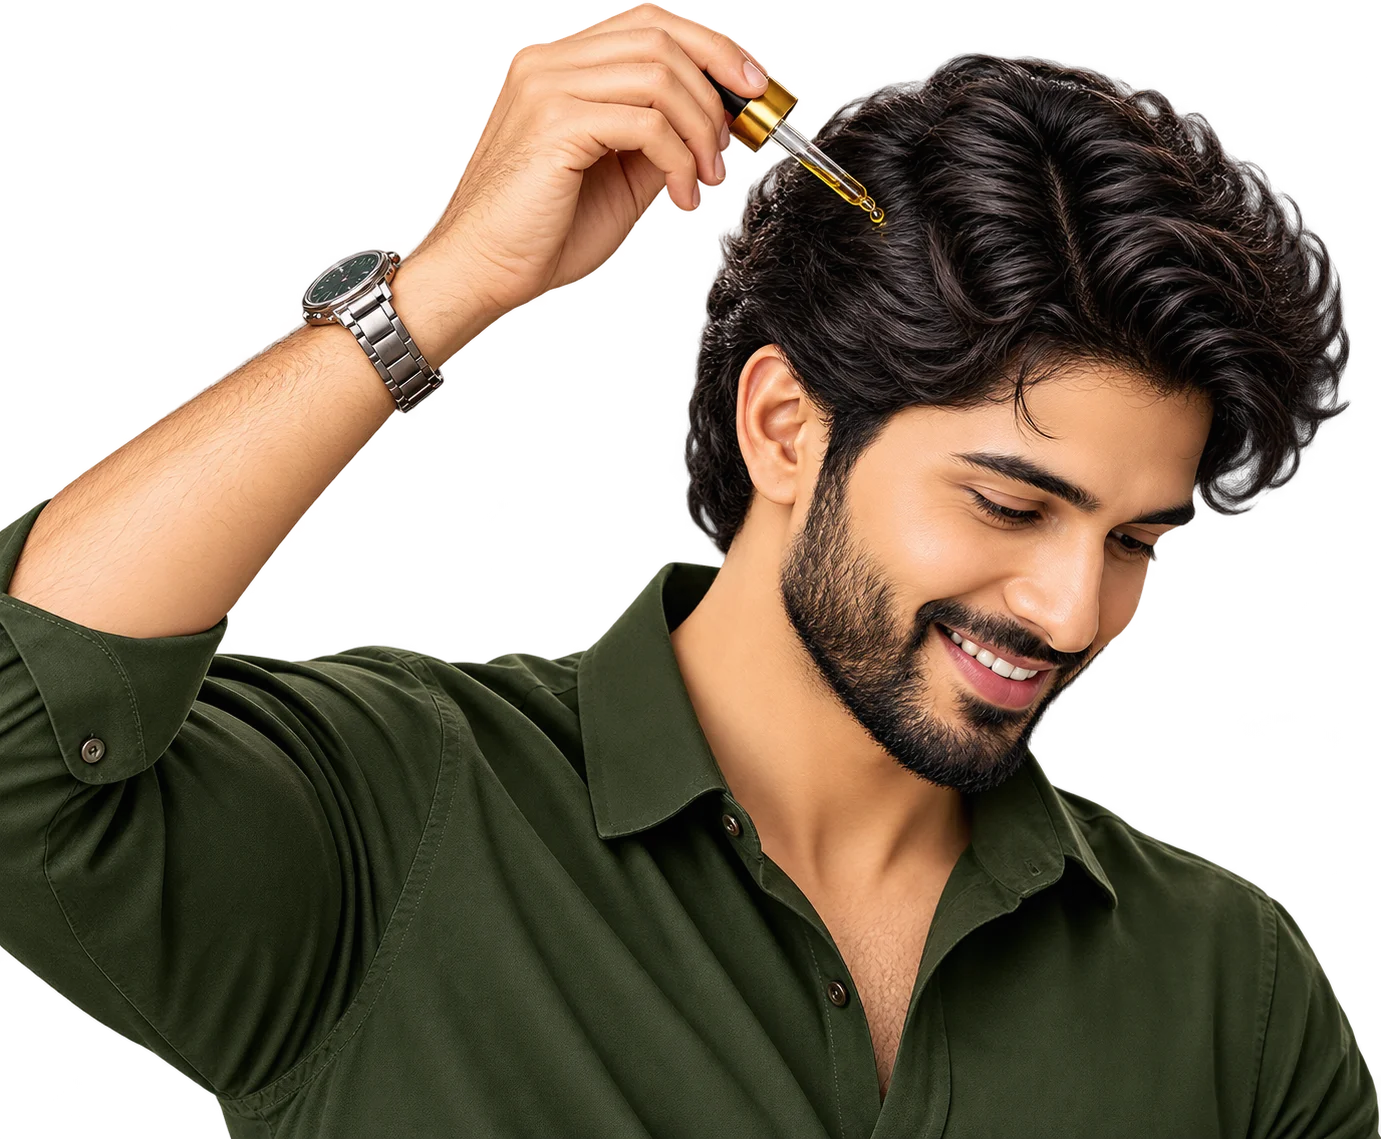
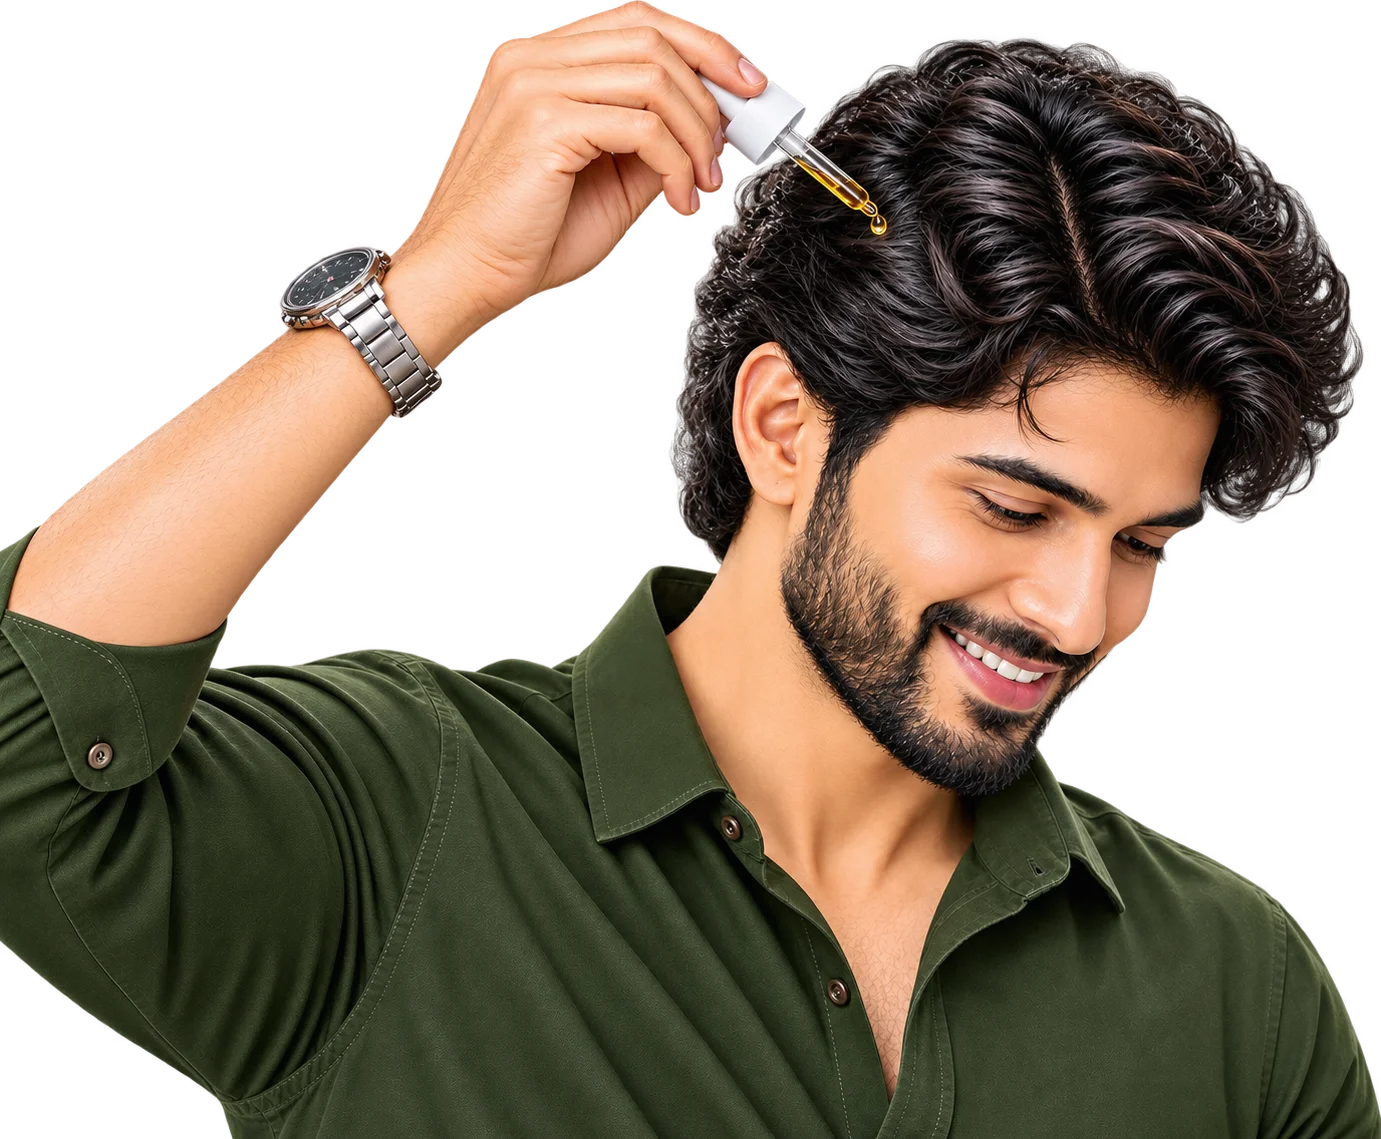
updated

diff --git a/src/ProductSequence.jsx b/src/ProductSequence.jsx
@@ -32,6 +32,9 @@ export default function ProductSequence() {
     const requests = new Set();
     const panels = sectionEl.querySelectorAll(".scene-copy");
     let desired = 0;
+    let preloadTarget = 0;
+    const frameState = { value: 0 };
+    let frameTween;
     let drawn = -1;
     let direction = 1;
     let raf = 0;
@@ -62,11 +65,13 @@ export default function ProductSequence() {
 
     const pump = () => {
       if (disposed) return;
-      const candidates = [desired];
+      // Keep the frame under the scroll position and the frames just ahead of
+      // it warm in the cache. This prevents a visible jump during faster swipes.
+      const candidates = [desired, preloadTarget];
       if (!reducedMotion.matches) {
         const radius = Math.floor((cacheLimit - 1) / 2);
         for (let offset = 1; offset <= radius; offset += 1) {
-          candidates.push(desired + offset * direction, desired - offset * direction);
+          candidates.push(preloadTarget + offset * direction, preloadTarget - offset * direction);
         }
       }
       for (const index of candidates) {
@@ -81,7 +86,7 @@ export default function ProductSequence() {
           loading.delete(index);
           if (disposed) return;
           cache.set(index, image);
-          const farthest = [...cache.keys()].sort((a, b) => Math.abs(b - desired) - Math.abs(a - desired));
+          const farthest = [...cache.keys()].sort((a, b) => Math.abs(b - preloadTarget) - Math.abs(a - preloadTarget));
           while (cache.size > cacheLimit) cache.delete(farthest.shift());
           schedule();
           pump();
@@ -124,6 +129,13 @@ export default function ProductSequence() {
     resize();
     updatePanels(0);
 
+    const updateDisplayedFrame = () => {
+      const next = Math.round(frameState.value);
+      if (next !== desired) desired = next;
+      schedule();
+      pump();
+    };
+
     const media = gsap.matchMedia();
     media.add("(prefers-reduced-motion: no-preference)", () => {
       const trigger = ScrollTrigger.create({
@@ -132,11 +144,18 @@ export default function ProductSequence() {
         end: "bottom bottom",
         onUpdate: (self) => {
           const next = frameAtProgress(self.progress, sequence);
-          if (next !== desired) direction = next > desired ? 1 : -1;
-          desired = next;
+          if (next !== preloadTarget) direction = next > preloadTarget ? 1 : -1;
+          preloadTarget = next;
+          frameTween?.kill();
+          frameTween = gsap.to(frameState, {
+            value: next,
+            duration: mobile.matches ? 0.12 : 0.18,
+            ease: "power1.out",
+            overwrite: true,
+            onUpdate: updateDisplayedFrame,
+          });
           sectionEl.style.setProperty("--progress", self.progress);
           updatePanels(self.progress);
-          schedule();
           pump();
         },
       });
@@ -146,6 +165,7 @@ export default function ProductSequence() {
 
     return () => {
       disposed = true;
+      frameTween?.kill();
       media.revert();
       observer.disconnect();
       cancelAnimationFrame(raf);

diff --git a/src/pages/AboutPage.jsx b/src/pages/AboutPage.jsx
@@ -148,7 +148,7 @@ export default function AboutPage() {
               <p>A simple, considered ritual for healthier-looking hair and a calmer moment for yourself.</p>
             </div>
             <div className="about-ritual-guide-art" aria-hidden="true">
-              <img src="/about-main-img.webp" alt="" loading="lazy" />
+              <img src="/how-to-use-banner.png" alt="" loading="lazy" />
             </div>
           </header>
           <div className="about-ritual-guide-grid">

diff --git a/src/index.css b/src/index.css
@@ -1727,7 +1727,7 @@ dialog small {
   display: block;
   min-height: 0;
   padding: clamp(46px, 6vw, 74px) 0 40px;
-  overflow: hidden;
+  overflow: visible;
   border-bottom: 0;
 }
 .about-ritual-guide-heading > div:first-child {
@@ -1767,7 +1767,7 @@ dialog small {
   position: absolute;
   z-index: 0;
   top: 0;
-  right: calc(clamp(20px, 4vw, 54px) * -1);
+  right: -54px;
   width: 58%;
   height: 100%;
   overflow: hidden;
